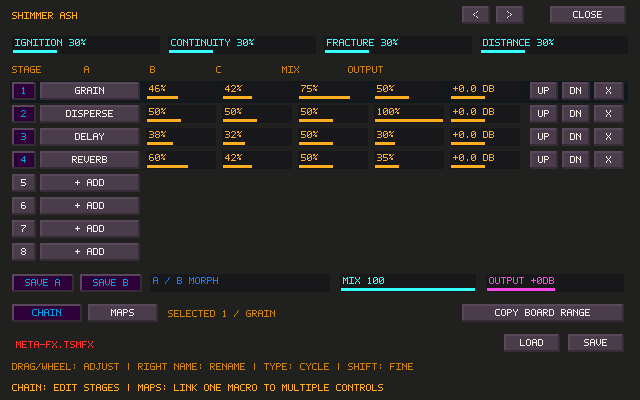
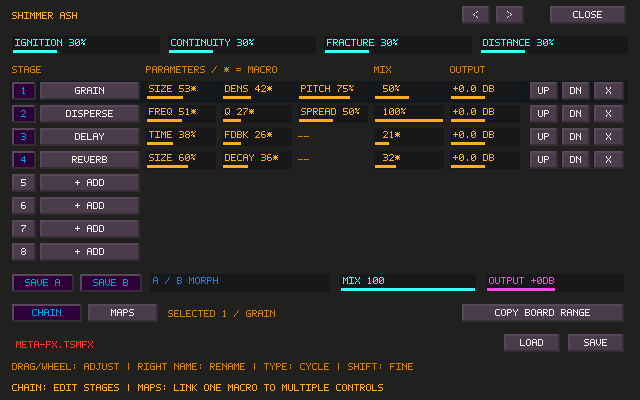
Preserve rack capture, keyboard audition and complete saved state

diff --git a/tests/test_meta_fx.c b/tests/test_meta_fx.c
@@ -62,6 +62,10 @@ static void racks(void) {
         TsMetaControls c;
         ts_meta_preset(&c, p);
         assert(ts_meta_valid(&c));
+        unsigned assigned = 0;
+        for (int j = 0; j < c.map_count; ++j)
+            assigned |= 1u << c.map[j].macro;
+        assert(assigned == 15);
         TsMetaEngine *a = ts_meta_new(&c, 48000, 42), *b = ts_meta_new(&c, 48000, 42);
         assert(a && b);
         double energy = 0;
@@ -106,6 +110,8 @@ static void racks(void) {
     ts_meta_capture(&c, 1);
     c.scene_mode = 1;
     c.morph = .5f;
+    ts_meta_capture(&c, 0);
+    assert(!c.scene_mode && fabsf(c.macro[0] - .5f) < 1e-6 && fabsf(c.scene[0][0] - .5f) < 1e-6);
     ts_meta_macro_set(&c, 1, .7f);
     assert(fabsf(c.macro[0] - .5f) < 1e-6 && c.macro[1] == .7f && !c.scene_mode);
     c.map_count = 2;
@@ -177,6 +183,19 @@ static void persistence(void) {
     assert(ts_sister_project_state_load_file(&loaded, "meta-project.tsr", 48000, &present, error,
                                              sizeof(error)) &&
            present);
+    FILE *original = fopen("meta-project.tsr", "rb"), *incomplete = fopen("meta-incomplete.tsr", "wb");
+    assert(original && incomplete);
+    char line[4096];
+    while (fgets(line, sizeof(line), original))
+        if (strncmp(line, "Matrix.Meta", 11))
+            fputs(line, incomplete);
+    fclose(original);
+    fclose(incomplete);
+    assert(!ts_sister_project_state_load_file(&loaded, "meta-incomplete.tsr", 48000, &present, error,
+                                              sizeof(error)));
+    remove("meta-incomplete.tsr");
+    assert(ts_sister_project_state_load_file(&loaded, "meta-project.tsr", 48000, &present, error,
+                                             sizeof(error)));
     assert(!memcmp(&loaded.matrix.effect[i].meta, &a, sizeof(a)));
     assert(loaded.parameters.fx.slot[1].type == TS_SISTER_FX_RESONATOR);
     remove("meta-project.tsr");

diff --git a/src/ts_meta_fx.c b/src/ts_meta_fx.c
@@ -165,7 +165,11 @@ void ts_meta_macro_set(TsMetaControls *c, int i, float v) {
 void ts_meta_capture(TsMetaControls *c, int i) {
     if (i < 0 || i > 1)
         return;
-    effective(c, c->scene[i]);
+    float audible[TS_META_MACROS];
+    effective(c, audible);
+    memcpy(c->scene[i], audible, sizeof(audible));
+    memcpy(c->macro, audible, sizeof(audible));
+    c->scene_mode = 0;
     c->captured |= 1 << i;
 }
 static const char *preset_names[] = {"ARC",         "PALE CLOUD",   "SHIMMER ASH", "IRON CHOIR",
@@ -197,6 +201,7 @@ void ts_meta_preset(TsMetaControls *c, int preset) {
         if (s->type == TS_SISTER_FX_TRANSIENT) {
             map_add(c, 0, i, 0, .48f, .9f);
             map_add(c, 1, i, 1, .35f, .72f);
+            map_add(c, 2, i, 2, .85f, .15f);
             s->power = 1;
         }
         if (s->type == TS_SISTER_FX_GRAIN) {
@@ -204,8 +209,10 @@ void ts_meta_preset(TsMetaControls *c, int preset) {
             map_add(c, 1, i, 1, .25f, .8f);
             s->value[2] = preset == 2 ? .75f : .5f;
         }
-        if (s->type == TS_SISTER_FX_FILTER)
+        if (s->type == TS_SISTER_FX_FILTER) {
             map_add(c, 3, i, 5 + TS_CF_L_CUT, .92f, .5f);
+            map_add(c, 0, i, 5 + TS_CF_L_DRIVE, 0, .35f);
+        }
         if (s->type == TS_SISTER_FX_DISTORTION) {
             map_add(c, 0, i, 0, .08f, .65f);
             s->value[4] = .32f;

diff --git a/src/ts_routing_matrix.c b/src/ts_routing_matrix.c
@@ -321,10 +321,12 @@ int ts_matrix_read(TsMatrixControls *c,const char *key,const char *v)
         TsMatrixEffectControls e={0};e.id=(uint32_t)x[0];e.type=(int)x[1];e.enabled=(int)x[2];
         e.a=x[3];e.b=x[4];e.c=x[5];e.mix=x[6];e.gain_db=x[7];e.transition=x[8];
         e.compressor=(TsCompressorControls){(int)x[9],(int)x[10],x[11],x[12],x[13],x[14],x[15]};
-        e.meta=next.effect[n].meta;if(e.type==TS_MATRIX_FX_META && !e.meta.initialized)ts_meta_default(&e.meta);
+        e.meta=next.effect[n].meta;int pending_meta=e.type==TS_MATRIX_FX_META && !e.meta.initialized;
+        if(pending_meta)ts_meta_default(&e.meta);
         e.filter=next.effect[n].filter;if(!e.filter.initialized)ts_character_filter_default(&e.filter);
         e.transient_power=next.effect[n].transient_power;e.transient_states=next.effect[n].transient_states;
         if(!ts_matrix_effect_valid(&e))return -1;
+        if(pending_meta)e.meta.initialized=2; /* Require a complete rack before final graph validation. */
         next.effect[n]=e;
     } else if(!strcmp(key,"SerialMask")) {
         const unsigned serial=(1u<<TS_MATRIX_MAIN)|(1u<<TS_MATRIX_PRISM)|(1u<<TS_MATRIX_BOARD)|(1u<<TS_MATRIX_FALLOUT);

diff --git a/tests/test_meta_fx_controller.c b/tests/test_meta_fx_controller.c
@@ -90,6 +90,23 @@ int main(int argc, char **argv) {
     drag(70, 44, 50);
     assert(rack->macro[0] > before &&
            audio.sister.matrix.controls.effect[slot].meta.macro[0] == rack->macro[0]);
+    SDL_Event key;
+    SDL_zero(key);
+    key.type = SDL_KEYDOWN;
+    key.key.windowID = meta_fx_window.id;
+    key.key.keysym.sym = SDLK_q;
+    assert(!meta_fx_event(&key, 0, &audio, &ui, &sister, &pages, &bank));
+    key.type = SDL_KEYUP;
+    assert(!meta_fx_event(&key, 0, &audio, &ui, &sister, &pages, &bank));
+    float changed = rack->macro[0];
+    key.type = SDL_KEYDOWN;
+    key.key.keysym.sym = SDLK_z;
+    key.key.keysym.mod = KMOD_CTRL;
+    assert(meta_fx_event(&key, 0, &audio, &ui, &sister, &pages, &bank));
+    assert(rack->macro[0] == before);
+    key.key.keysym.sym = SDLK_y;
+    assert(meta_fx_event(&key, 0, &audio, &ui, &sister, &pages, &bank));
+    assert(rack->macro[0] == changed);
     click(32, 280, SDL_BUTTON_LEFT);
     click(100, 280, SDL_BUTTON_LEFT);
     assert(rack->captured == 3);

diff --git a/docs/META_FX.md b/docs/META_FX.md
@@ -51,6 +51,8 @@ replaces the path. Files contain the complete rack, mappings and macro states;
 no external samples or SunVox installation are needed. Writes replace the
 file atomically. Malformed or incomplete imports leave the current rack
 unchanged. Project/config persistence and Matrix Undo/Redo include the rack.
+Ctrl+Z/Ctrl+Y also work in the rack editor; audition keys pass through when
+no text field is being edited.
 
 ## New building blocks
 
